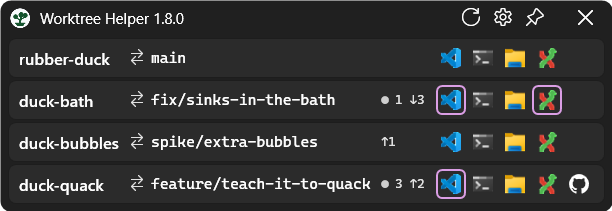
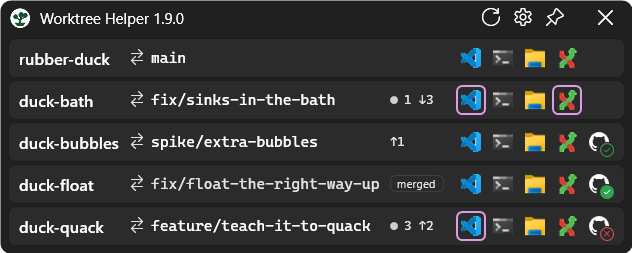
Release 1.9.0
The version goes to 1.9.0, and the changelog gains its section, which is also what the app
shows as what's new.

diff --git a/CHANGELOG.md b/CHANGELOG.md
@@ -1,5 +1,20 @@
 # Changelog
 
+## v1.9.0
+
+- The **GitHub** button says how its pull request stands, with a badge on its corner: a hollow
+  green tick when approved, a filled one once merged; a hollow red cross when checks are failing or
+  changes were requested, a filled one when it was closed without merging; a question mark while
+  review comments are unresolved; and a clock while checks are running. A draft's button is faded,
+  and hovering it spells out the checks, the review and the comments.
+- A worktree whose pull request has been **merged**, with nothing committed in it since, is tagged
+  **merged** and its branch greyed: it can be reused or removed. Its GitHub button stays, and opens
+  the merged request.
+- When GitHub does not answer - no reply within 15 seconds, no connection, a server error - a
+  warning sign appears in the title bar, saying how old the pull request marks are; clicking it
+  tries again. A slow GitHub no longer holds up the rest of a refresh.
+- Fixed: the longest branch name is no longer cut short by one character for an ellipsis.
+
 ## v1.8.0
 
 - An **Android Studio** button, on worktrees that have an Android project, where Android Studio
